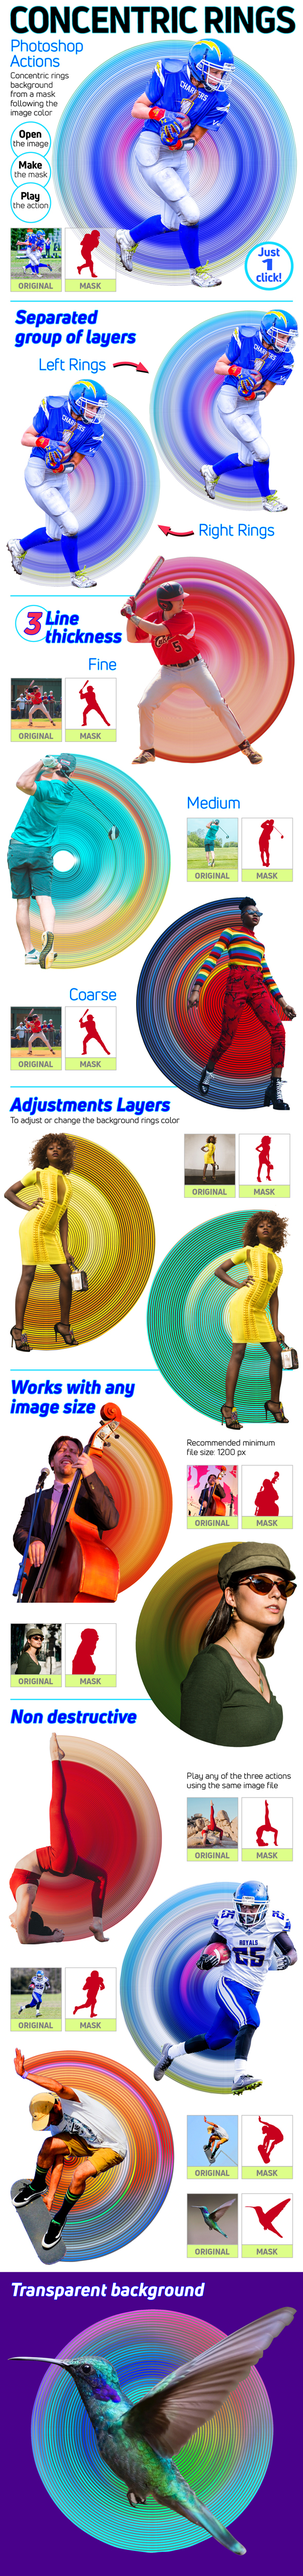
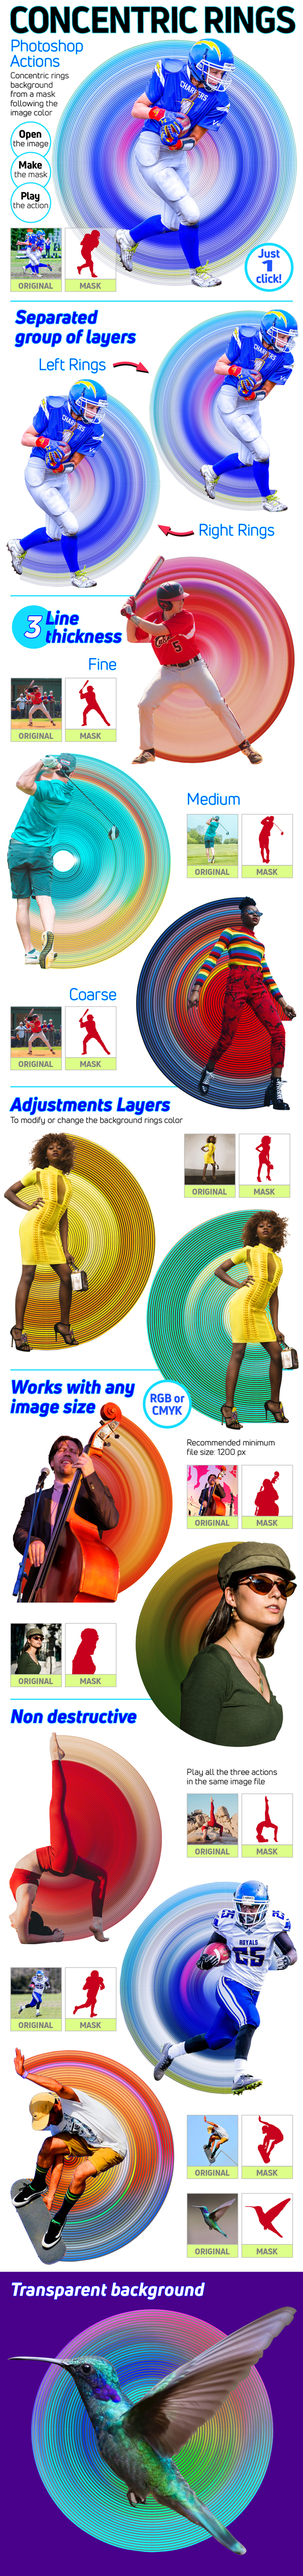
new caetrlr

diff --git a/rings_html/index.html b/rings_html/index.html
@@ -23,12 +23,12 @@
 <li><strong>Just 1 click</strong></li>
 <li><strong>Non-destructive</strong>: keeps the original images
 untouched</li>
+<li>Play all the three actions using the same file</li>
 <li>Well-organized layers in groups</li>
 <li>Background rings with Adjustment Layers to modify or change its color</li>
 <li>Transparent background</li>
 <li>Works with any image size. Recommended minimum file size: 1200 px</li>
 <li>Works with RGB or CMYK</li>
-<li>After playing an action, select the mask layer again to run the next one. The result of the new action will be automatically placed at the top of the layer panel</li>
 <li>Photoshop versions CS6, CC, CC2014, CC2015, CC2017, CC2018, CC2019+</li>
 </ul>
 </div>
@@ -36,10 +36,11 @@ untouched</li>
 <div>        
 <h3 style="color:#054F6D">Content:</h3>
 <ul style="color:#bababa; margin-left:30px;">
-<li>3 action files<ul>
-<li>CONCENTRIC_RING_FINE.atn</li>
-<li>CONCENTRIC_RING_MEDIUM.atn</li>
-<li>CONCENTRIC_RING_COARSE.atn</li>
+<li>A set of actions CONCENTRIC_RING with three items:
+  <ul>
+<li>CONCENTRIC_RING_FINE</li>
+<li>CONCENTRIC_RING_MEDIUM</li>
+<li>CONCENTRIC_RING_COARSE</li>
 </ul></li>
 <li>1 PDF Help File</li>
 </ul>
@@ -47,15 +48,15 @@ untouched</li>
   
 <h3 style="color:#054F6D; ">Install:</h3>
 <p style="color:#bababa; margin-left:20px; font-weight: bold;">Load the Concentric Rings Actions</p>
- <ul style="color:#bababa; margin-left:30px;"><li>CONCENTRIC_RING_FINE.atn</li><li>CONCENTRIC_RING_MEDIUM.atn</li>
-<li>CONCENTRIC_RING_COARSE.atn</li></ul>
+ <ul style="color:#bababa; margin-left:30px;">
+  <li>CONCENTRIC_RINGS.atn</li></ul>
 
 
 <h3 style="color:#054F6D">Instructions:</h3>
 <p>
 <ul style="color:#bababa; margin-left:30px;">
 <li>Open the image file</li>
-<li>Mask the main picture area</li>
+<li>Make a top layer with the masked content of the part of the image around which the rings will be</li>
 <li>From the Actions Panel choose the action</li>
 <li>Click the Play Action button at the panel bottom</li>
 <li>The action ends with a New Layer Group named as the action played
@@ -71,9 +72,9 @@ untouched</li>
 <p>
 <ul style="color:#bababa; margin-left:30px;"><li>Show or hide the Left or Right group of layers by clicking the layer’s eye icon to display only the
 half of the background</li>
-<li>Open the Left and/or Right layer group to show its content by clicking the left icon of the layer thumbnail. Modify the adjustments layer’s parameters by double clicking the layer thumbnail to show the options panel. Move the sliders to change the background rings color</li>
-<li>To play another action click back the Mask Layer
-</li>
+<li>Open the Left and/or Right layer group to show its content by clicking expand icon at the left of the layer thumbnail.</li><li>Modify the Adjustments Layers parameters by double clicking the layer thumbnail to show the options panel. Move the sliders to change the background rings color</li>
+<li>After playing an action, select the mask layer again to run the next one. The result of the new action will be automatically placed at the top of
+the Layer Panel</li>
 </ul></p>
 <p><img src="https://raw.githubusercontent.com/akidaniel/almacen/gh-pages/rings_html/images/adj.gif" alt="layers2"></p>
 
